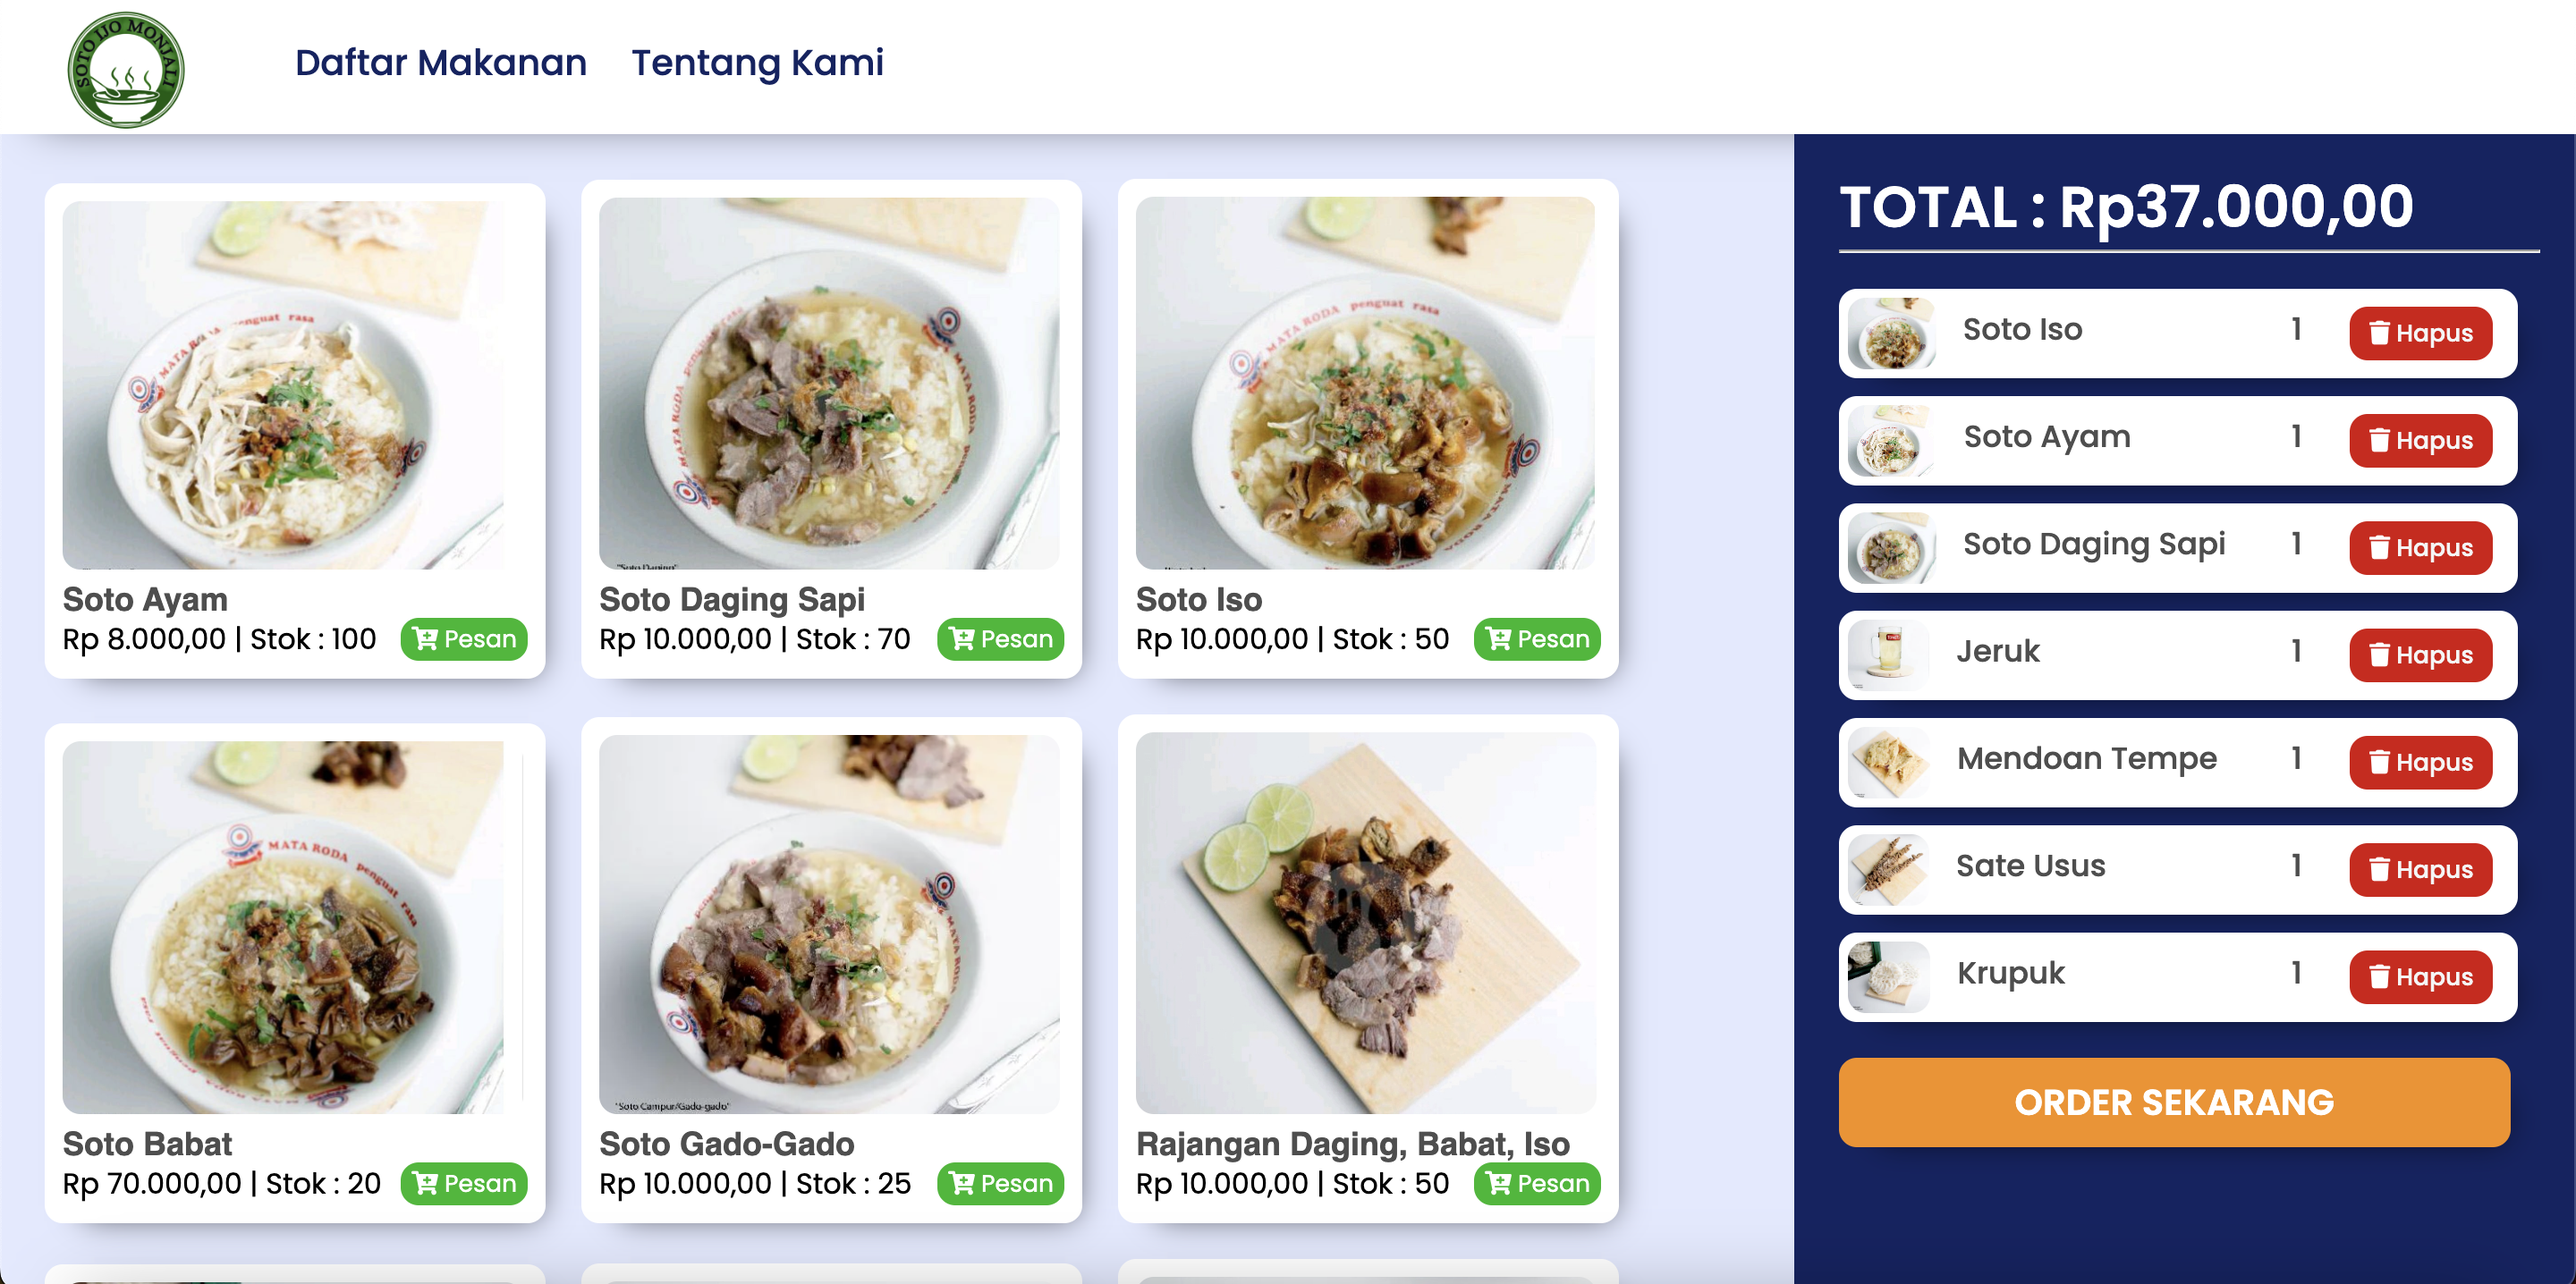
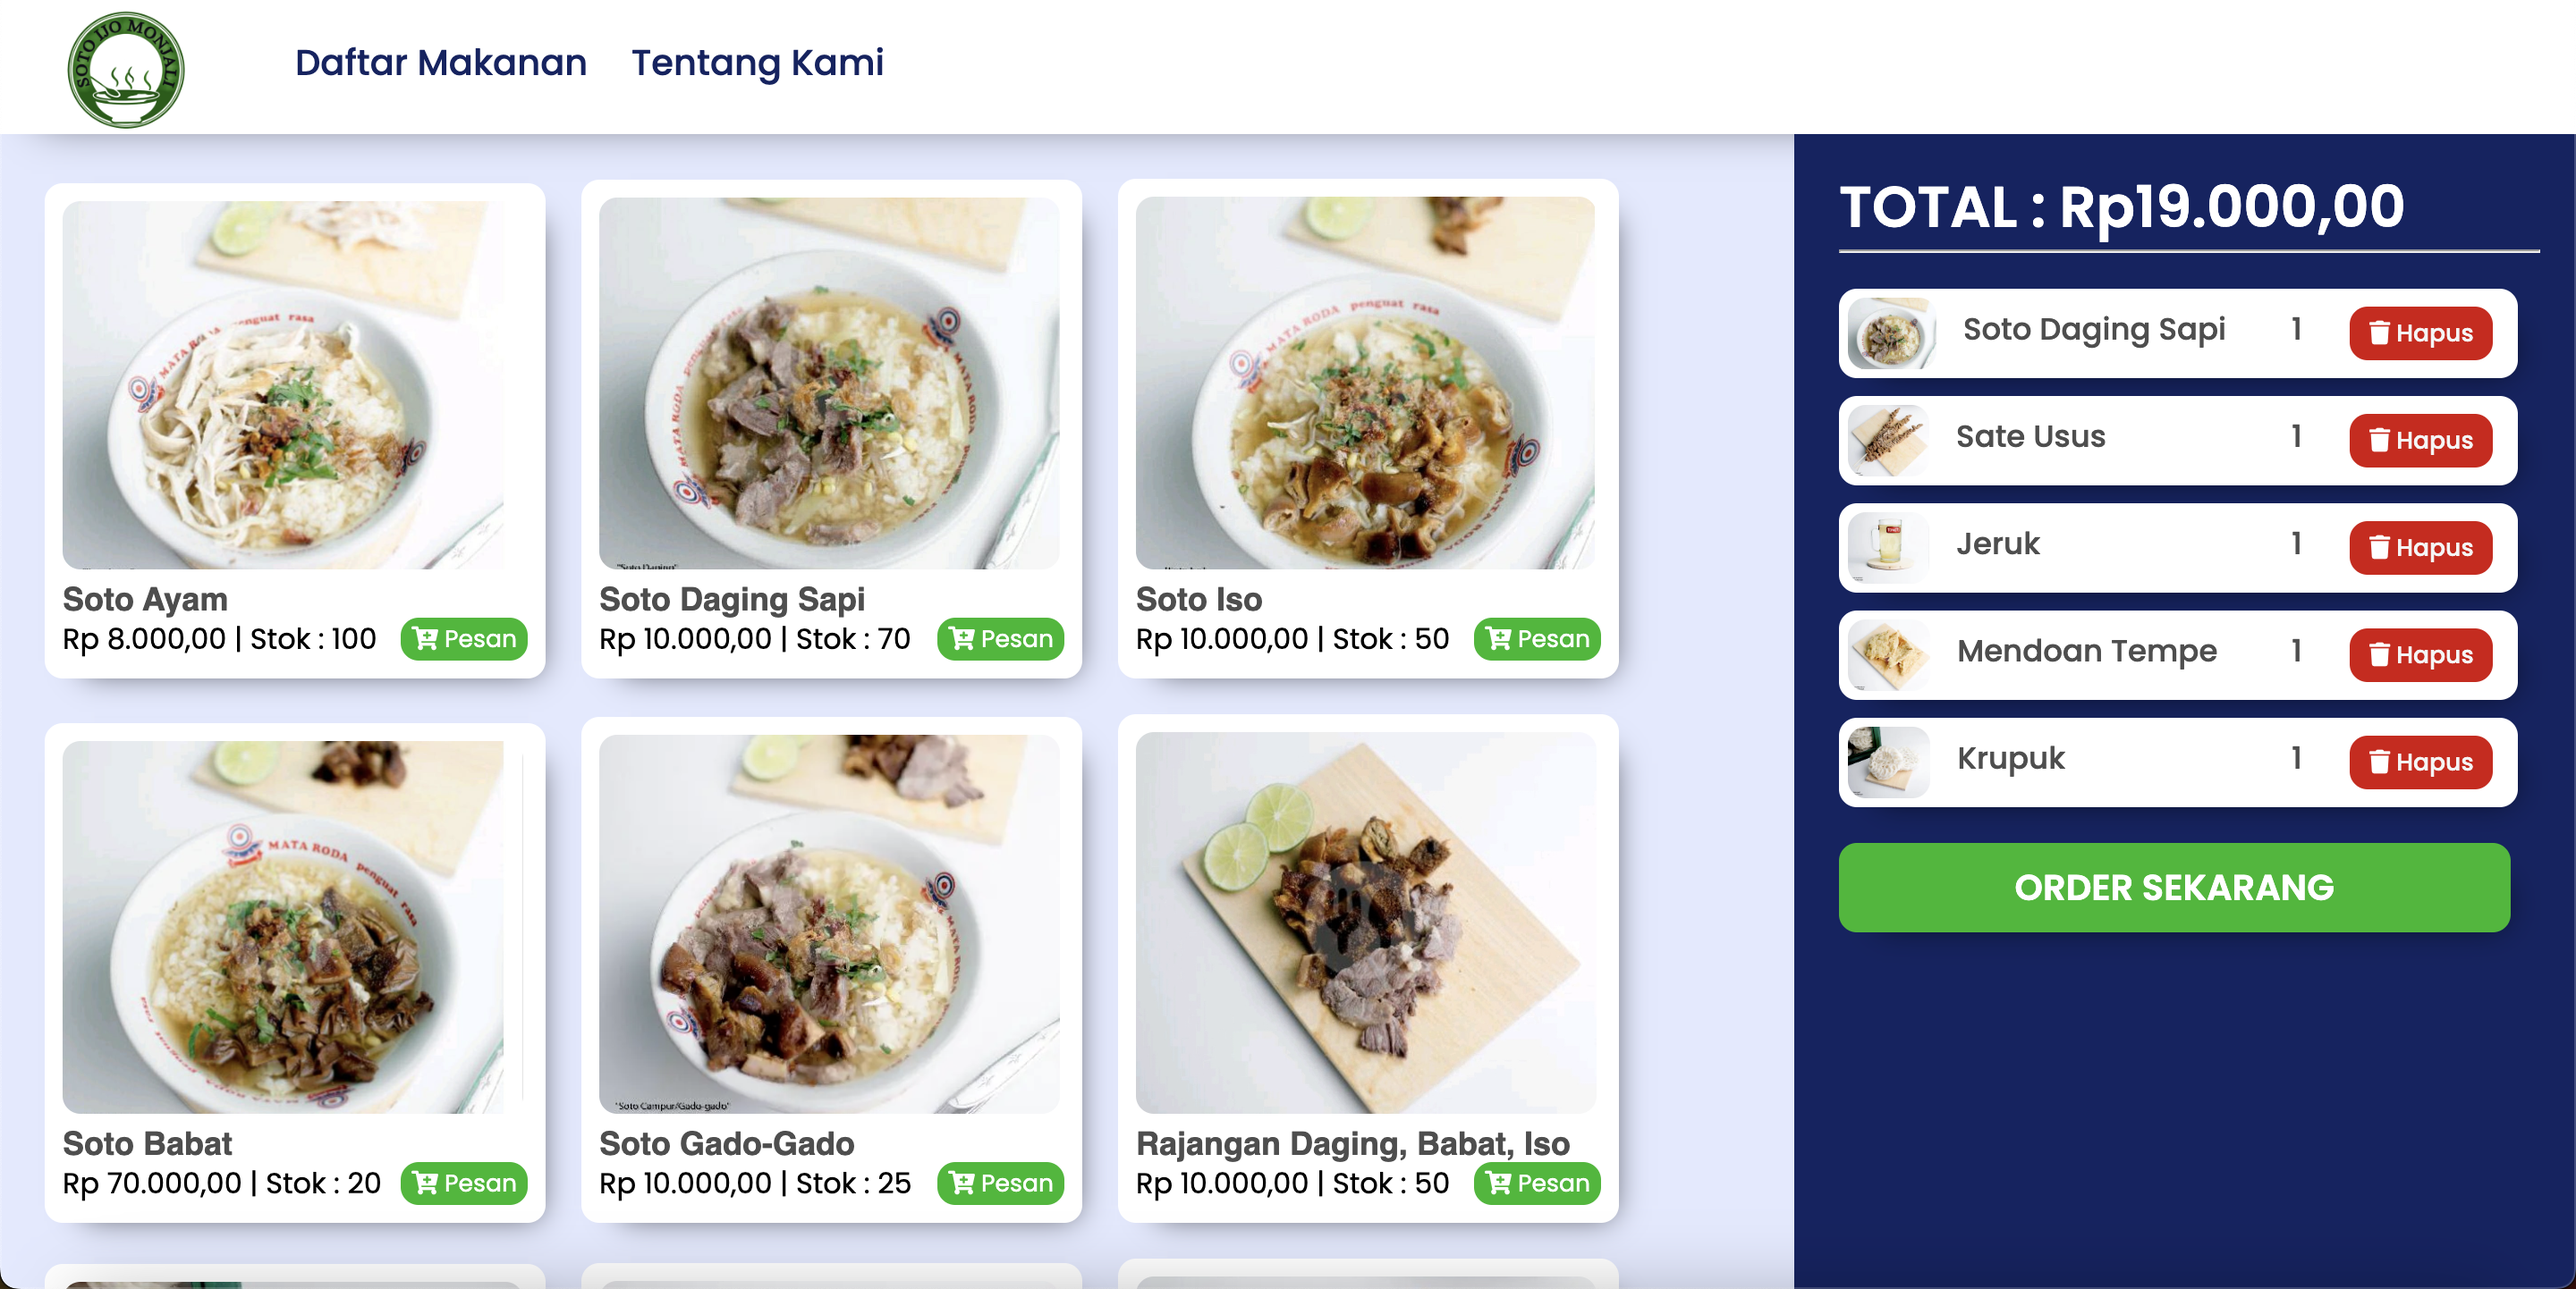
update

diff --git a/style.css b/style.css
@@ -39,7 +39,7 @@ body {
   color: #122363;
 }
 .navbar ul li a:hover {
-  color: rgb(247, 143, 7);
+  color: #00b91f;
 }
 .navbar img {
   width: 70px;
@@ -186,7 +186,7 @@ body {
   width: 90%;
   height: 50px;
   margin: 10px 10px 10px 15px;
-  background-color: rgb(247, 143, 7);
+  background-color: #00b91f;
   border-radius: 10px;
   font-size: 20px;
   font-weight: 600;
@@ -197,7 +197,7 @@ body {
 }
 
 .card-finish button:hover {
-  background-color: rgb(211, 120, 0);
+  background-color: #189e2e;
 }
 
 .fas {
